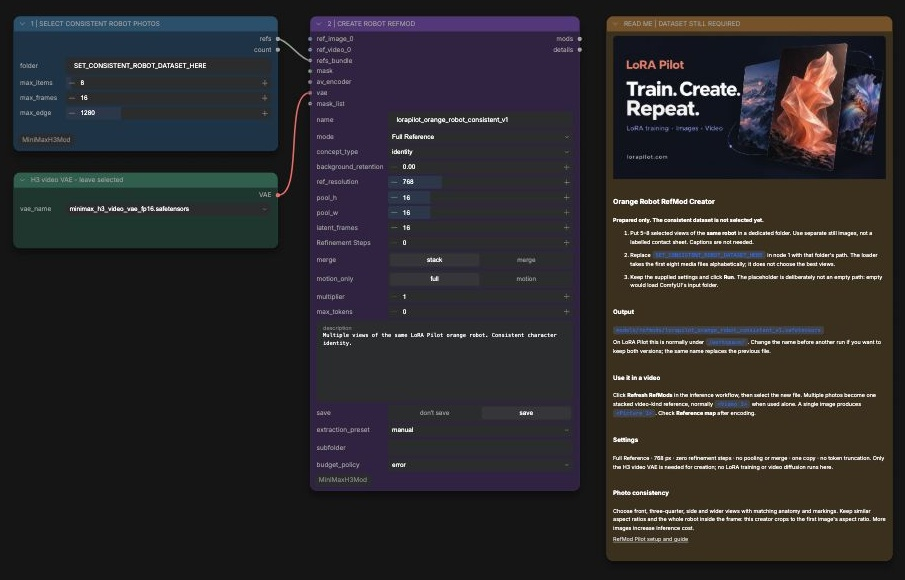
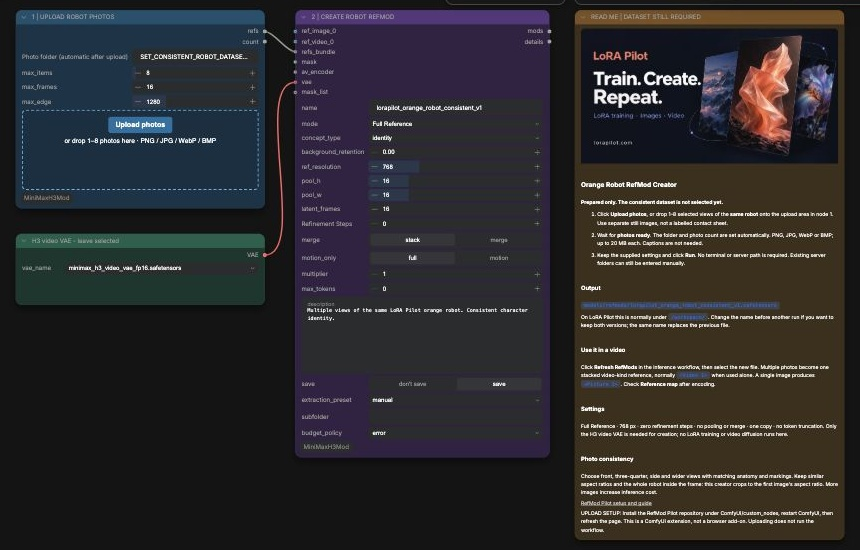
Document live upload checks and refresh creator screenshot

diff --git a/VALIDATION.md b/VALIDATION.md
@@ -67,3 +67,20 @@ repository.
 - The original loader exposes its advanced fields; in the tested Nodes 2.0 UI,
   unused slot fields can also remain visible. Add/remove updates the slot state,
   but this upstream display behavior makes the loader taller.
+
+## Browser photo upload
+
+- Installed the RefMod Pilot frontend extension on the pod and verified its
+  registration after restarting ComfyUI. Opened a fresh browser page to load it.
+- Used the Upload photos file picker to upload two non-personal test images. The
+  UI reported two photos ready, populated an isolated relative input folder, and
+  set max_items to two. No RefMod extraction was run for these test images.
+- Selected an unreadable PNG and confirmed a visible error with the previous
+  folder preserved. Restored the robot template's unset folder and count of eight.
+- Six automated tests passed with `node --test tests/upload.test.mjs`, covering
+  validation, duplicate filenames, partial failure, destination checks,
+  cancellation and supported extensions.
+- Inspected the upload button/drop area in the live creator and updated its
+  README screenshot. File-picker interaction was tested in the Codex in-app
+  browser; OS drag-and-drop and Chrome/Edge/Firefox/Safari were not separately
+  exercised. The extension uses standard file APIs, without a browser add-on.
